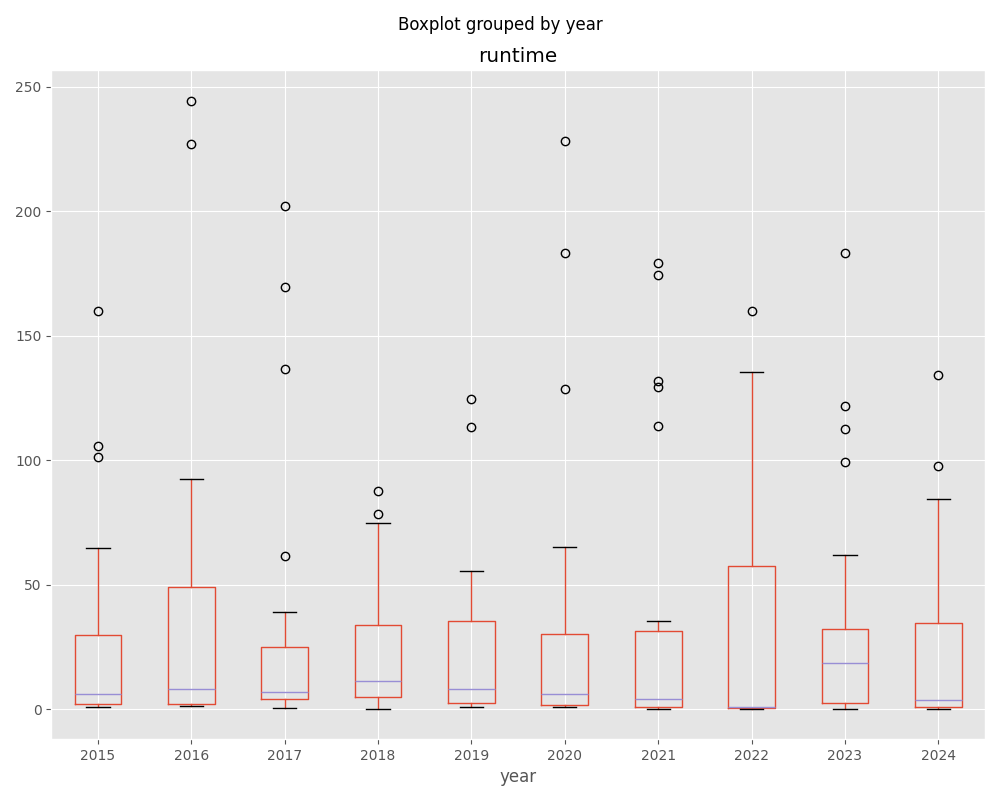
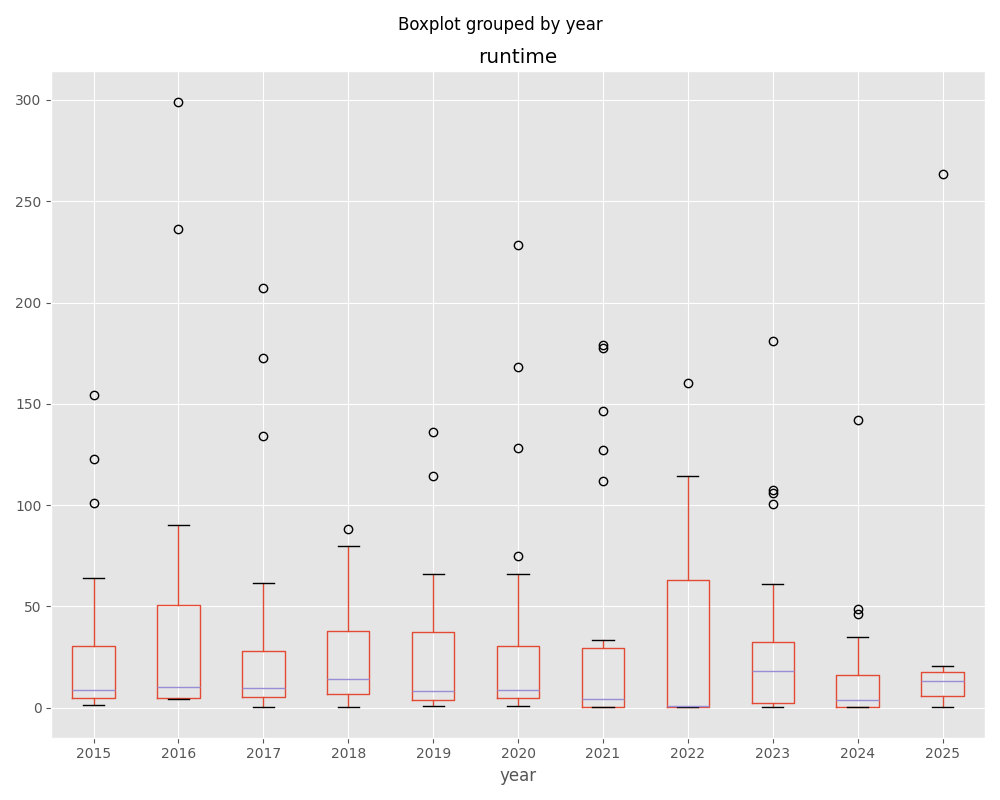
update graphs after finishing 2025

diff --git a/README.md b/README.md
@@ -1,2 +1,3 @@
 # advent-of-code-images
-Graphs &amp; Images for advent of code solutions
+
+Graphs & Images for advent of code solutions
